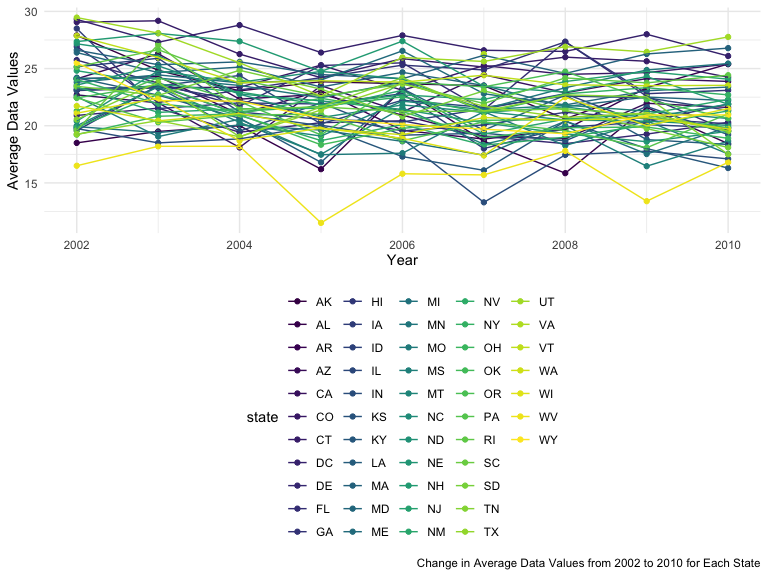
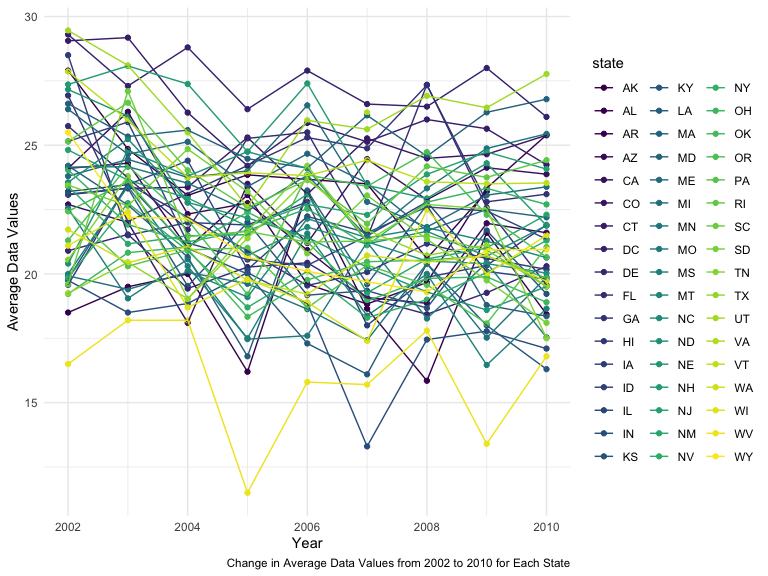
Question 2 comment and Question 3 part 1 comment added

diff --git a/p8105_hw3_yy3421.md b/p8105_hw3_yy3421.md
@@ -33,7 +33,7 @@ knitr::opts_chunk$set(
 library(p8105.datasets)
 data("instacart")
 
-theme_set(theme_minimal() + theme(legend.position = "bottom"))
+theme_set(theme_minimal() + theme(legend.position = "right"))
 
 options(
   ggplot2.continuous.colour = "viridis",
@@ -80,6 +80,7 @@ n_item_max |>
 ```
 
 <img src="p8105_hw3_yy3421_files/figure-gfm/unnamed-chunk-4-1.png" width="90%" />
+
 This point plot shows the number of items ordered in each aisle in an
 ascending order.
 
@@ -96,25 +97,24 @@ instacart_aisle |>
   mutate(
     product_rank = min_rank(desc(n_product))
     ) |> 
-  filter(product_rank < 4) 
+  filter(product_rank < 4) |> 
+  knitr::kable()
 ```
 
     ## `summarise()` has grouped output by 'aisle'. You can override using the
     ## `.groups` argument.
 
-    ## # A tibble: 9 × 4
-    ## # Groups:   aisle [3]
-    ##   aisle                      product_name                 n_product product_rank
-    ##   <chr>                      <chr>                            <int>        <int>
-    ## 1 packaged vegetables fruits Organic Baby Spinach              9784            1
-    ## 2 packaged vegetables fruits Organic Raspberries               5546            2
-    ## 3 packaged vegetables fruits Organic Blueberries               4966            3
-    ## 4 baking ingredients         Light Brown Sugar                  499            1
-    ## 5 baking ingredients         Pure Baking Soda                   387            2
-    ## 6 baking ingredients         Cane Sugar                         336            3
-    ## 7 dog food care              Snack Sticks Chicken & Rice…        30            1
-    ## 8 dog food care              Organix Chicken & Brown Ric…        28            2
-    ## 9 dog food care              Small Dog Biscuits                  26            3
+| aisle                      | product_name                                  | n_product | product_rank |
+|:---------------------------|:----------------------------------------------|----------:|-------------:|
+| packaged vegetables fruits | Organic Baby Spinach                          |      9784 |            1 |
+| packaged vegetables fruits | Organic Raspberries                           |      5546 |            2 |
+| packaged vegetables fruits | Organic Blueberries                           |      4966 |            3 |
+| baking ingredients         | Light Brown Sugar                             |       499 |            1 |
+| baking ingredients         | Pure Baking Soda                              |       387 |            2 |
+| baking ingredients         | Cane Sugar                                    |       336 |            3 |
+| dog food care              | Snack Sticks Chicken & Rice Recipe Dog Treats |        30 |            1 |
+| dog food care              | Organix Chicken & Brown Rice Recipe           |        28 |            2 |
+| dog food care              | Small Dog Biscuits                            |        26 |            3 |
 
 The above table table shows the three most popular items in aisles
 `baking ingredients`, `dog food care`, and `packaged vegetables fruits`,
@@ -137,23 +137,22 @@ instacart |>
   pivot_wider(
     names_from = product_name,
     values_from = mean_hour
-  )
+  ) |> 
+  knitr::kable(digits = 2)
 ```
 
     ## `summarise()` has grouped output by 'order_dow'. You can override using the
     ## `.groups` argument.
 
-    ## # A tibble: 7 × 3
-    ## # Groups:   order_dow [7]
-    ##   order_dow `Coffee Ice Cream` `Pink Lady Apples`
-    ##       <dbl>              <dbl>              <dbl>
-    ## 1         1               13.8               13.4
-    ## 2         2               14.3               11.4
-    ## 3         3               15.4               11.7
-    ## 4         4               15.3               14.2
-    ## 5         5               15.2               11.6
-    ## 6         6               12.3               12.8
-    ## 7         7               13.8               11.9
+| order_dow | Coffee Ice Cream | Pink Lady Apples |
+|----------:|-----------------:|-----------------:|
+|         1 |            13.77 |            13.44 |
+|         2 |            14.32 |            11.36 |
+|         3 |            15.38 |            11.70 |
+|         4 |            15.32 |            14.25 |
+|         5 |            15.22 |            11.55 |
+|         6 |            12.26 |            12.78 |
+|         7 |            13.83 |            11.94 |
 
 The last table shows the mean hour of the day at which Pink Lady Apples
 and Coffee Ice Cream are ordered on every single day of the week. Pink
@@ -168,6 +167,8 @@ Load data and clean:
 library(p8105.datasets)
 data("brfss_smart2010")
 ```
+
+Data cleaning:
 
 ``` r
 brfss_smart2010 = 
@@ -198,6 +199,14 @@ brfss_smart2002_state =
     n_location >= 7
   )
 
+str(brfss_smart2002_state)
+```
+
+    ## tibble [6 × 2] (S3: tbl_df/tbl/data.frame)
+    ##  $ state     : chr [1:6] "CT" "FL" "MA" "NC" ...
+    ##  $ n_location: int [1:6] 7 7 8 7 8 10
+
+``` r
 brfss_smart2010_state = 
   brfss_smart2010 |> 
   filter(
@@ -207,23 +216,38 @@ brfss_smart2010_state =
   summarize(n_location = n_distinct(county)) |> 
   filter(
     n_location >= 7)
+
+str(brfss_smart2010_state)
 ```
 
-There are 6 locations in 2002, which are CT, FL, MA, NC, NJ, PA. There
-are 14 locations in 2010, which are CA, CO, FL, MA, MD, NC, NE, NJ, NY,
-OH, PA, SC, TX, WA.
+    ## tibble [14 × 2] (S3: tbl_df/tbl/data.frame)
+    ##  $ state     : chr [1:14] "CA" "CO" "FL" "MA" ...
+    ##  $ n_location: int [1:14] 12 7 41 9 12 12 10 19 9 8 ...
+
+There are 6 locations in 2002, which are CT, FL, MA, NC, NJ, PA.
+
+There are 14 locations in 2010, which are CA, CO, FL, MA, MD, NC, NE,
+NJ, NY, OH, PA, SC, TX, WA.
 
 ### Question 2:
 
 ``` r
-brfss_smart2010 |> 
+brfss_excellent_avg =
+  brfss_smart2010 |> 
   filter(
     response == "Excellent"
   ) |> 
   select(year, state, data_value
   ) |> 
   group_by(state, year) |> 
-  summarize(avg_data_value = mean(data_value, na.rm = TRUE)) |>
+  summarize(avg_data_value = mean(data_value, na.rm = TRUE)) 
+```
+
+    ## `summarise()` has grouped output by 'state'. You can override using the
+    ## `.groups` argument.
+
+``` r
+brfss_excellent_avg |> 
   ggplot(aes(
     x = year, 
     y = avg_data_value, 
@@ -238,10 +262,18 @@ brfss_smart2010 |>
   )
 ```
 
-    ## `summarise()` has grouped output by 'state'. You can override using the
-    ## `.groups` argument.
-
 <img src="p8105_hw3_yy3421_files/figure-gfm/unnamed-chunk-10-1.png" width="90%" />
+
+The `brfss_excellent_avg` data set contains only the information on the
+state with `Excellent` responses. In this data set, the three variables
+are `state`, `year`, and `avg_data_value`. Based on these three
+variables, this dataset contains information on the average data values
+of each state with `Excellent` reponse every year.
+
+The plot above shows the change in average data values of each state,
+only with Excellent responses, per year during the time period of 2002
+to 2010. We can observe that each state has an obvious change in average
+data value per year.
 
 ### Question 3:
 
@@ -266,6 +298,13 @@ brfss_smart2010 |>
 ```
 
 <img src="p8105_hw3_yy3421_files/figure-gfm/unnamed-chunk-11-1.png" width="90%" />
+
+The above two-panel plot compare the data value between year 2006 and
+2010. In each year, the data value is further grouped based on the
+response, `Excellent`, `Very good`, `Good`, `Fair`, and `Poor`. Based on
+this plot, in 2006, responses `Very good` and `Good` have the highest
+data values while response `Very good` has the highest data values in
+2010. However, both years have `Poor` as the lowest data value response.
 
 ## Problem 3
 
@@ -339,15 +378,26 @@ Table:
 
 ``` r
 nhanes_covar |> 
-  select(education, sex) |> 
-  table()
+  group_by(education, sex) |> 
+  summarise(number =n()) |> 
+  knitr::kable()
 ```
 
-    ##                         sex
-    ## education                female male
-    ##   high school equivalent     23   35
-    ##   less than high school      28   27
-    ##   more than high school      59   56
+    ## `summarise()` has grouped output by 'education'. You can override using the
+    ## `.groups` argument.
+
+| education              | sex    | number |
+|:-----------------------|:-------|-------:|
+| high school equivalent | female |     23 |
+| high school equivalent | male   |     35 |
+| less than high school  | female |     28 |
+| less than high school  | male   |     27 |
+| more than high school  | female |     59 |
+| more than high school  | male   |     56 |
+
+The table above shows the number of people in each educaiton and sex
+category. Based on this table, most of female and male have an education
+level of `more than high school`.
 
 Visualization of Age Distribution:
 
@@ -360,11 +410,19 @@ nhanes_covar |>
     x = "Age",
     y = "Distribution",
     caption = "Age Distribution of Men and Women in Each Education Category"
-  )+
-  theme_minimal()
+  )
 ```
 
 <img src="p8105_hw3_yy3421_files/figure-gfm/unnamed-chunk-14-1.png" width="90%" />
+
+The three-panel density plot above presents the age distribution for men
+and women in each education category. In education levels
+`high school equivalent` and `less than high school`, female has a
+left-skewed and comparatively unimodal distribution. In these two
+education levels, male has a bimodel distribution and comparatively
+left-skewed distribution for `less than high school`. For
+`more than high school`, both sex categories have a right-skewed
+distribution.
 
 ### Question 2:
 
@@ -387,8 +445,7 @@ nhanes_df |>
     x = "Age",
     y = "Total Activity over the Day",
     caption = "Total Activities Versus Age of Men and Women for Each Education Level"
-  )+
-  theme_minimal()
+  )
 ```
 
     ## `summarise()` has grouped output by 'seqn', 'sex', 'age'. You can override
@@ -415,8 +472,7 @@ nhanes_df |>
     x = "Number of Time",
     y = "Activity Time",
     caption = "24-Hour Activity Time Courses for Each Educaiton Level"
-  )+
-  theme_minimal()
+  )
 ```
 
     ## `geom_smooth()` using method = 'gam' and formula = 'y ~ s(x, bs = "cs")'
